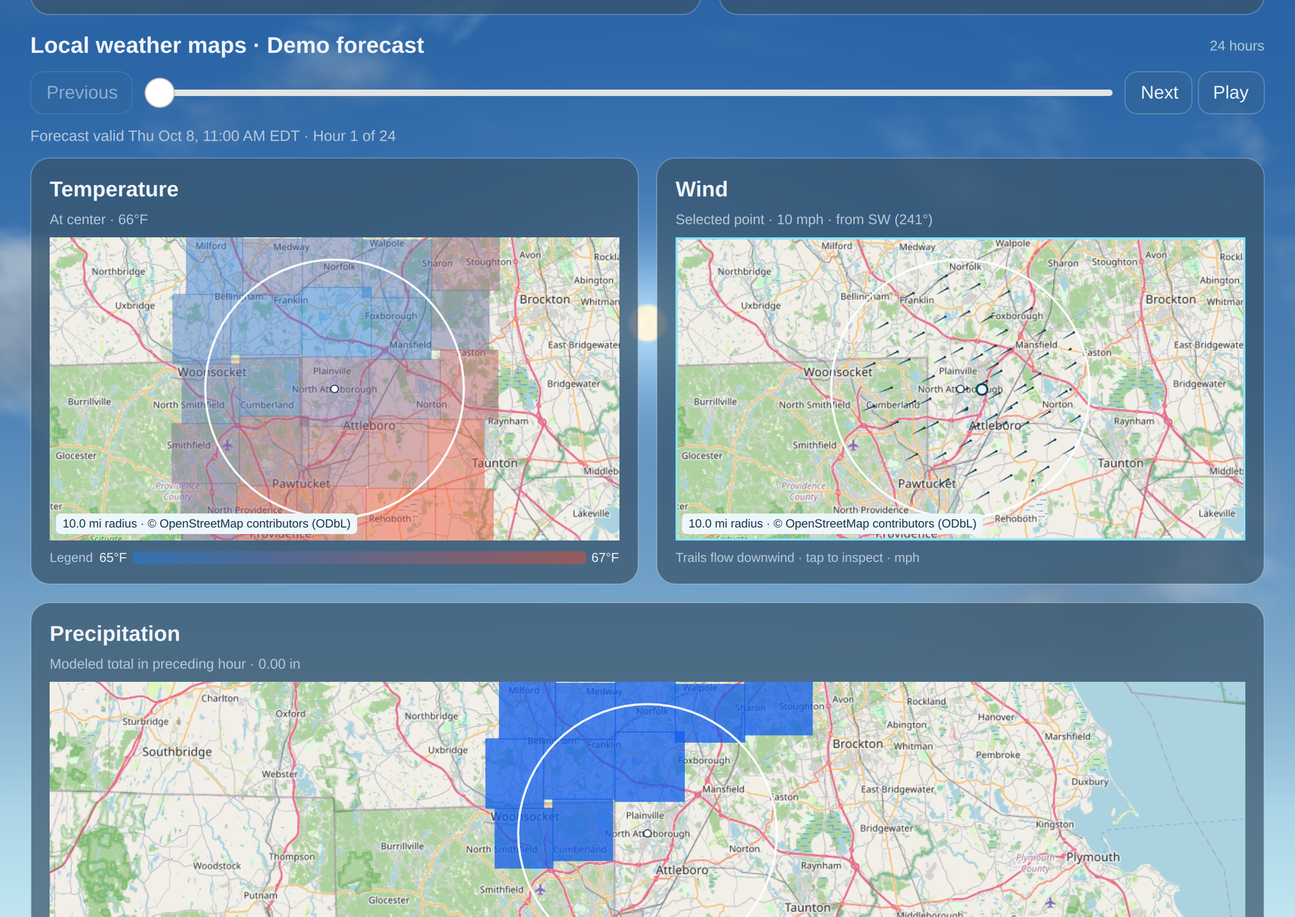
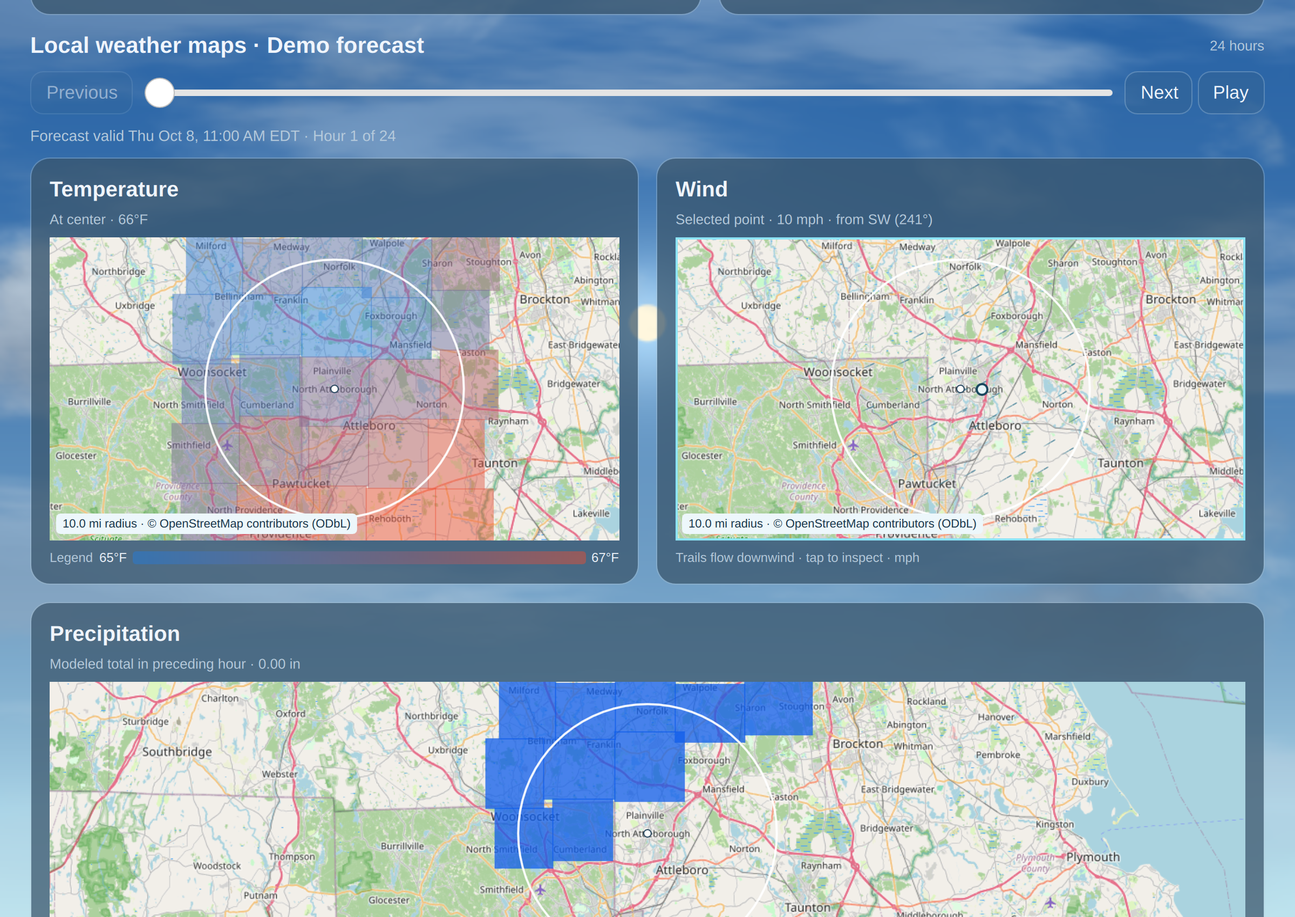
Soften and shorten wind streaks while reducing map animation work

diff --git a/ui/qml/WeatherMapCard.qml b/ui/qml/WeatherMapCard.qml
@@ -26,7 +26,7 @@ GlassPanel {
     property real inspectionY: 0.5
     property bool pointSelected: false
     readonly property real flowRadius: desiredScale * 16093.44
-    readonly property int trailCount: Math.max(24, Math.min(96, Math.round(mapArea.width * mapArea.height / 2200)))
+    readonly property int trailCount: Math.max(16, Math.min(64, Math.round(mapArea.width * mapArea.height / 3200)))
     readonly property var inspectedVector: windField ? WindField.interpolate(windField.samples, inspectionX * mapArea.width, inspectionY * mapArea.height) : ({
             x: 0,
             y: 0
@@ -77,13 +77,13 @@ GlassPanel {
     onAnimationActiveChanged: resetTrails()
     Timer {
         objectName: "windAnimationTimer"
-        interval: 40
+        interval: 67
         repeat: true
         running: root.animationActive && root.windField !== null
         onRunningChanged: root.lastTick = Date.now()
         onTriggered: {
             const now = Date.now();
-            const dt = Math.max(0, Math.min(0.08, (now - root.lastTick) / 1000));
+            const dt = Math.max(0, Math.min(0.12, (now - root.lastTick) / 1000));
             root.lastTick = now;
             WindField.advance(root.particles, root.windField, dt, root.flowRadius);
             overlay.requestPaint();
@@ -188,8 +188,8 @@ GlassPanel {
         ctx.clearRect(0, 0, overlay.width, overlay.height);
         if (!mapData || hourIndex >= mapData.hours.length)
             return;
-        let cells = mapData.cells, vals = cells.map(c => mapLayer === "temperature" ? c.temperature_c[hourIndex] : mapLayer === "precipitation" ? c.precipitation_mm[hourIndex] : c.wind_speed_m_s[hourIndex]);
         if (mapLayer !== "wind") {
+            const cells = root.mapData.cells, vals = root.fieldValues;
             if (mapData.resolution_km >= 10) {
                 ctx.fillStyle = shade(vals[12], root.fieldMin, root.fieldMax);
                 ctx.fillRect(0, 0, overlay.width, overlay.height);
@@ -217,16 +217,12 @@ GlassPanel {
                     continue;
                 const fade = root.animationActive ? Math.max(0, Math.min(1, particle.age / 0.7, (particle.life - particle.age) / 1.2)) : 1;
                 for (let i = 1; i < points.length; ++i) {
-                    ctx.strokeStyle = "rgba(16,72,91," + (fade * (0.08 + 0.58 * i / points.length)) + ")";
+                    ctx.strokeStyle = "rgba(80,136,156," + (fade * (0.10 + 0.45 * i / (points.length - 1))) + ")";
                     ctx.beginPath();
                     ctx.moveTo(points[i - 1].x, points[i - 1].y);
                     ctx.lineTo(points[i].x, points[i].y);
                     ctx.stroke();
                 }
-                ctx.fillStyle = "rgba(12,57,77," + fade * 0.75 + ")";
-                ctx.beginPath();
-                ctx.arc(head.x, head.y, 1.2, 0, Math.PI * 2);
-                ctx.fill();
             }
             ctx.restore();
         }

diff --git a/ui/qml/WindField.js b/ui/qml/WindField.js
@@ -107,6 +107,27 @@ function inside(x, y, width, height, radius) {
 function velocity(value) {
     return Math.min(3.6, 48 / Math.max(0.001, speed(value)));
 }
+// Bound visible length in pixels as well as history size. Lower refresh rates
+// must not turn short wind streaks into longer tails. Keep a fractional tail
+// segment so trimming stays continuous rather than dropping whole segments.
+function trimTrail(points) {
+    let length = 0;
+    for (let i = points.length - 1; i > 0; --i) {
+        const head = points[i], tail = points[i - 1];
+        const dx = tail.x - head.x, dy = tail.y - head.y;
+        const distance = Math.sqrt(dx * dx + dy * dy);
+        if (length + distance > 18) {
+            const fraction = (18 - length) / distance;
+            tail.x = head.x + dx * fraction;
+            tail.y = head.y + dy * fraction;
+            points.splice(0, i - 1);
+            break;
+        }
+        length += distance;
+    }
+    if (points.length > 12)
+        points.splice(0, points.length - 12);
+}
 function advance(particles, field, dt, radius) {
     for (let i = 0; i < particles.length; ++i) {
         const p = particles[i], v = sample(field, p.x, p.y), scale = velocity(v);
@@ -124,8 +145,7 @@ function advance(particles, field, dt, radius) {
             x: p.x,
             y: p.y
         });
-        if (p.points.length > 20)
-            p.points.shift();
+        trimTrail(p.points);
     }
 }
 function staticTrails(count, field, radius) {
@@ -133,7 +153,7 @@ function staticTrails(count, field, radius) {
     for (let i = 0; i < count; ++i) {
         const p = seed(i, field.width, field.height, radius, 0);
         // Build upstream from the head so taper conveys direction without motion.
-        for (let step = 0; step < 19; ++step) {
+        for (let step = 0; step < 11; ++step) {
             const v = sample(field, p.x, p.y), scale = velocity(v);
             p.x -= v.x * scale * 0.08;
             p.y -= v.y * scale * 0.08;
@@ -144,6 +164,7 @@ function staticTrails(count, field, radius) {
                 y: p.y
             });
         }
+        trimTrail(p.points);
         result.push(p);
     }
     return result;

diff --git a/native/qt/tests/frontend_test.cpp b/native/qt/tests/frontend_test.cpp
@@ -401,9 +401,45 @@ class FrontendTest : public QObject {
             const field = WindField.build([{x: 50, y: 50, vx: 0, vy: 150}], 100, 100);
             const p = [WindField.seed(0, 100, 100, 43, 0)];
             for (let i = 0; i < 1000; ++i) WindField.advance(p, field, 0.08, 43);
-            return p.length === 1 && p[0].points.length <= 20
+            return p.length === 1 && p[0].points.length <= 12
                 && WindField.inside(p[0].x, p[0].y, 100, 100, 43)
                 && WindField.velocity({x: 150, y: 0}) * 150 <= 48;
+        })())")
+                    .toBool());
+    }
+    void windTrailsStayShortAtLowerRefreshRates() {
+        QQmlEngine engine;
+        QQmlComponent component(&engine, QUrl("qrc:/ui/qml/WeatherMapCard.qml"));
+        std::unique_ptr<QObject> owner(component.create());
+        QVERIFY2(owner, qPrintable(component.errorString()));
+        QVERIFY(evaluate(engine, owner.get(), R"((function() {
+            function bounded(p) {
+                let length = 0;
+                for (let i = 1; i < p.points.length; ++i) {
+                    const a = p.points[i - 1], b = p.points[i];
+                    length += Math.hypot(b.x - a.x, b.y - a.y);
+                }
+                return p.points.length <= 12 && length <= 18.00001;
+            }
+            // Fast, curved, and calm fields all retain the same visual bound.
+            for (const speed of [0, 3, 15, 150]) {
+                const field = WindField.build([
+                    {x: 0, y: 0, vx: speed, vy: 0},
+                    {x: 400, y: 400, vx: 0, vy: speed}
+                ], 400, 400);
+                for (const dt of [0.04, 0.067, 0.12]) {
+                    const particles = [WindField.seed(0, 400, 400, 172, 0)];
+                    for (let i = 0; i < 1000; ++i) {
+                        WindField.advance(particles, field, dt, 172);
+                        if (!bounded(particles[0])) return false;
+                    }
+                }
+                if (!WindField.staticTrails(64, field, 172).every(bounded)) return false;
+            }
+            // Preserve a partial tail segment instead of chopping whole points.
+            const points = [{x: 0, y: 0}, {x: 10, y: 0}, {x: 20, y: 0}];
+            WindField.trimTrail(points);
+            return points[0].x === 2 && points[points.length - 1].x === 20;
         })())")
                     .toBool());
     }
@@ -424,9 +460,10 @@ class FrontendTest : public QObject {
         QTRY_VERIFY(window.isExposed());
         auto* timer = card->findChild<QObject*>("windAnimationTimer");
         QVERIFY(timer);
+        QVERIFY(timer->property("interval").toInt() >= 60);
         QTRY_VERIFY(timer->property("running").toBool());
         QTRY_VERIFY(evaluate(engine, card, "particles[0].points.length > 1").toBool());
-        QVERIFY(evaluate(engine, card, "particles.length <= 96").toBool());
+        QVERIFY(evaluate(engine, card, "particles.length <= 64").toBool());
         QVERIFY(card->property("pointReadout").toString().contains("from N (0°)"));
         card->setProperty("windUnits", "m/s");
         QCOMPARE(card->property("pointReadout").toString(), QString("3.0 m/s · from N (0°)"));

diff --git a/native/qt/tests/atmosphere-wind-review.md b/native/qt/tests/atmosphere-wind-review.md
@@ -29,8 +29,9 @@ smooth model pattern, not new model detail. The UI distinguishes the native
 model grid from the 5 × 5 requested sample lattice (~5 miles / 8 km spacing).
 Inspection uses the forecast samples directly and the existing unit formatter.
 Tapered trails indicate downwind direction; pixel speed is illustrative and
-capped. Work is limited to 96 trails, 20 points each, and 25 animation ticks per
-second. Both fields and trails are immediately invalidated before coalesced
+capped. Following the softer wind-map refinement, work is limited to 64 trails,
+12 points each, and about 15 animation ticks per second. Each trail is also
+limited to 18 logical pixels, independently of refresh rate. Both fields and trails are immediately invalidated before coalesced
 rebuilds on a new hour, location, or geometry. Reduced motion retains static
 trails and point inspection, disables timeline Play, and keeps manual hours.
 
@@ -156,3 +157,31 @@ To capture another cloud recording, add `WEATHER_QT_CLOUD_CLIP` with a private
 output directory to the native review command above. It saves 24 PNG frames for
 each window width. Include `atmosphereCloudDriftIsVisible` in the test arguments
 to repeat the hardware cloud-motion regression check.
+
+## Follow-up: softer, lower-cost wind trails
+
+The wind map now uses short blue-gray streaks with no separate bright head
+dot. Opacity still tapers downwind, and motion and point inspection use the
+same forecast vectors. Trail density is reduced to at most 64, history to at
+most 12 points, and animation to about 15 updates per second. Visible arc
+length is capped at 18 logical pixels independently of update frequency;
+fractional tail trimming avoids abrupt whole-segment cuts. Reduced motion
+uses the same short trail bounds. Painting also reuses the cached field values
+for temperature/precipitation instead of allocating an unused values array
+on every wind frame. The accepted cloud background is unchanged.
+
+Native Wayland/OpenGL review at 1200 × 850 and 700 × 850 inspected the revised
+trails over copied offline map tiles, selected-point readouts, changed forecast
+hours, and Reduced motion. Updated representative wind screenshots are linked
+above. Tests cover short animated/static trails under calm, strong, and curved
+fields at different time steps, including a partial tail segment, plus existing
+viewport/minimized/hidden pausing and location/hour invalidation. The unchanged
+cloud pixel-motion check also passed on the native renderer.
+
+Validation passed: native/QML formatting and analysis, 43 Qt protocol cases,
+60 frontend cases (six optional/hardware cases skipped in the software run),
+and native hardware rendering checks. Service/frontend end-to-end checks were
+rerun as well. These changes reduce the bounded map drawing budget; no
+controlled CPU/GPU before-and-after benchmark was performed. Hardware coverage
+remains limited to this machine. Network requests and tile-cache behavior are
+unchanged, and no version number or release was changed.

diff --git a/README.md b/README.md
@@ -293,7 +293,8 @@ Its bounded background helper can refresh saved weather without opening the wind
 effects. Forecast animation runs only while the window is
 visible and not minimized; wind trails additionally require the map itself to be
 in the viewport. The sky uses a capped half-resolution Qt shader buffer, and wind
-trails use at most 96 paths of 20 points at 25 updates per second. Nearly clear
+trails use at most 64 paths of 12 points at about 15 updates per second, with
+each soft-blue streak capped at 18 logical pixels. Nearly clear
 skies retain faint wisps rather than a blanket of cloud; gentle cloud drift also
 continues with north/south winds. In-app rendering does not require Live desktop
 or compositor compatibility. Unsupported shader backends use a static sky. Enable Reduced motion to stop that animation and
